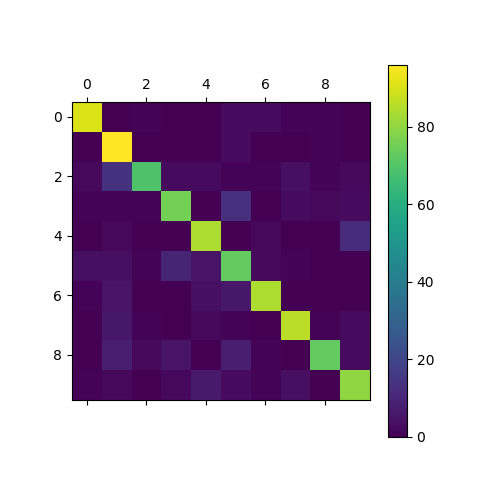
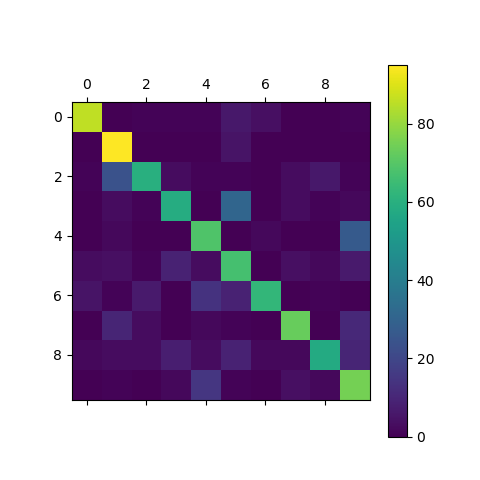
hw2 fixed

diff --git a/Non-Parametric Classification/main.py b/Non-Parametric Classification/main.py
@@ -85,24 +85,29 @@ train_cm = compute_confusion_matrix(train_data_gt, nearest_mean_results)
 print("Confusion matrix for training data: \n{}".format(train_cm))
 plt.matshow(train_cm)
 plt.colorbar()
-# plt.savefig('./images/training_cm.png')
+plt.savefig('./images/training_cm.png')
 plt.show()
 
+nearest_mean_results = list()
 test_data_gt = list()
 for l in range(NUM_CLASS):
     for v in test_data[l]:
         test_data_gt.append(l)
+        distances = list()
+        for i in range(NUM_CLASS):
+            distances.append(calc_distance(v, train_means[i]))
+        nearest_mean_results.append(distances.index(min(distances)))
 
 test_cm = compute_confusion_matrix(test_data_gt, nearest_mean_results)
 print("Confusion matrix for test data: \n{}".format(test_cm))
 plt.matshow(test_cm)
 plt.colorbar()
-# plt.savefig('./images/test_cm.png')
+plt.savefig('./images/test_cm.png')
 plt.show()
 
 
-def KNN(k, set1, set2):
-    results = list()
+def KNN(k, set1, set2, is_train=True):
+    preds, gts = list(), list()
     for key1, value1 in set1.items():
         for v1 in value1:
             distances = list()
@@ -111,16 +116,22 @@ def KNN(k, set1, set2):
                     distances.append((key1, key2, calc_distance(v1, v2)))
 
             distances.sort(key=lambda x: x[2])
-            distances = distances[1:k+1]  # reduce the sample itself
+            if is_train:
+                distances = distances[1:k+1]
+            else:
+                distances = distances[:k]
+            k_preds = [k2 for k1, k2, d in distances]
+            preds.append(max(set(k_preds), key=k_preds.count))
+            gts.append(key1)
 
-            preds = [k2 for k1, k2, d in distances]
-            results.append(max(set(preds), key=preds.count))
-    return results
+    return gts, preds
 
 
-_1nn_results = KNN(1, test_data, test_data)
+_1nn_gts, _1nn_results = KNN(1, test_data, train_data, is_train=False)
+print(_1nn_gts)
+print(_1nn_results)
 
-test_cm_1nn = compute_confusion_matrix(test_data_gt, _1nn_results)
+test_cm_1nn = compute_confusion_matrix(_1nn_gts, _1nn_results)
 print("Confusion matrix for test data: \n{}".format(test_cm_1nn))
 plt.matshow(test_cm_1nn)
 plt.colorbar()
@@ -138,15 +149,22 @@ def evaluate(y_true, y_pred):
     return accuracy * 100
 
 
-acc_1nn = evaluate(test_data_gt, KNN(1, train_data, test_data))
-acc_2nn = evaluate(test_data_gt, KNN(2, train_data, test_data))
-acc_3nn = evaluate(test_data_gt, KNN(3, train_data, test_data))
-acc_4nn = evaluate(test_data_gt, KNN(4, train_data, test_data))
-acc_5nn = evaluate(test_data_gt, KNN(5, train_data, test_data))
-acc_6nn = evaluate(test_data_gt, KNN(6, train_data, test_data))
-acc_7nn = evaluate(test_data_gt, KNN(7, train_data, test_data))
-acc_8nn = evaluate(test_data_gt, KNN(8, train_data, test_data))
-acc_9nn = evaluate(test_data_gt, KNN(9, train_data, test_data))
-acc_10nn = evaluate(test_data_gt, KNN(10, train_data, test_data))
+Ks = range(1, 11)
+train_accs, test_accs = list(), list()
 
+for k in Ks:
+    print("K: {}".format(k))
+    train_accs.append(evaluate(*KNN(k, train_data, train_data)))
 
+print(train_accs)
+
+for k in Ks:
+    print("K: {}".format(k))
+    test_accs.append(evaluate(*KNN(k, test_data, train_data, is_train=False)))
+
+print(test_accs)
+
+plt.plot(Ks, train_accs, "r", Ks, test_accs, "b")
+plt.ylabel('K')
+plt.xlabel('Accuracy')
+plt.show()
